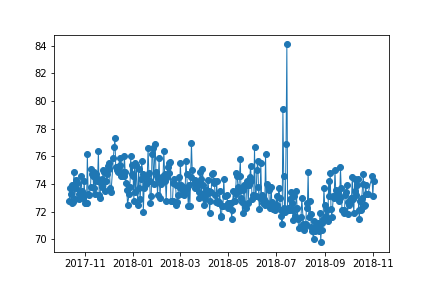
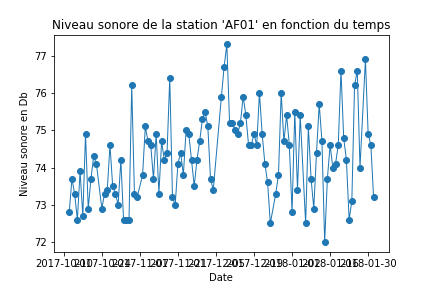
taille image et légende des graphes

diff --git a/client/style.css b/client/style.css
@@ -38,12 +38,14 @@ label {
 
 #map {
 	border : 0.5em solid rgba(255,255,255,0.5);
-	width : 50em;
-	margin-right : 2em;
+	width : 625px;
+	margin : auto;
+	
+	
 }
 
 #graphe {
-	width : 38em;
+	width : 615px;
 	margin-left : 2em;
 }	 
 

diff --git a/projetpy.py b/projetpy.py
@@ -71,7 +71,6 @@ class RequestHandler(http.server.SimpleHTTPRequestHandler):
     """
     datedeb="'"+str(donneesc[1])+'-'+'0'*(2-len(str(donneesc[2])))+str(donneesc[2])+'-'+'0'*(2-len(str(donneesc[3])))+str(donneesc[3])+"'"
     datefin="'"+str(donneesc[4])+'-'+'0'*(2-len(str(donneesc[5])))+str(donneesc[5])+'-'+'0'*(2-len(str(donneesc[6])))+str(donneesc[6])+'Z'+"'"
-    print(datedeb,datefin)
     nomstat="'"+donneesc[0]+"'"
     courbechoix=donneesc[7]
     conn = sqlite3.connect('acoucite-mesures.db')
@@ -93,8 +92,12 @@ class RequestHandler(http.server.SimpleHTTPRequestHandler):
         else:
             vall.append(float(val[n-k-1][0]))
     vall.reverse()
+
     plt.clf()
     plt.plot_date(t,vall,linewidth=1, linestyle='-', marker='o')
+    plt.xlabel('Date')
+    plt.ylabel('Niveau sonore en Db')
+    plt.title('Niveau sonore de la station '+nomstat +' en fonction du temps')
     fichier = url+'.png'
     plt.savefig('client/bdd/{}'.format(fichier))
     
